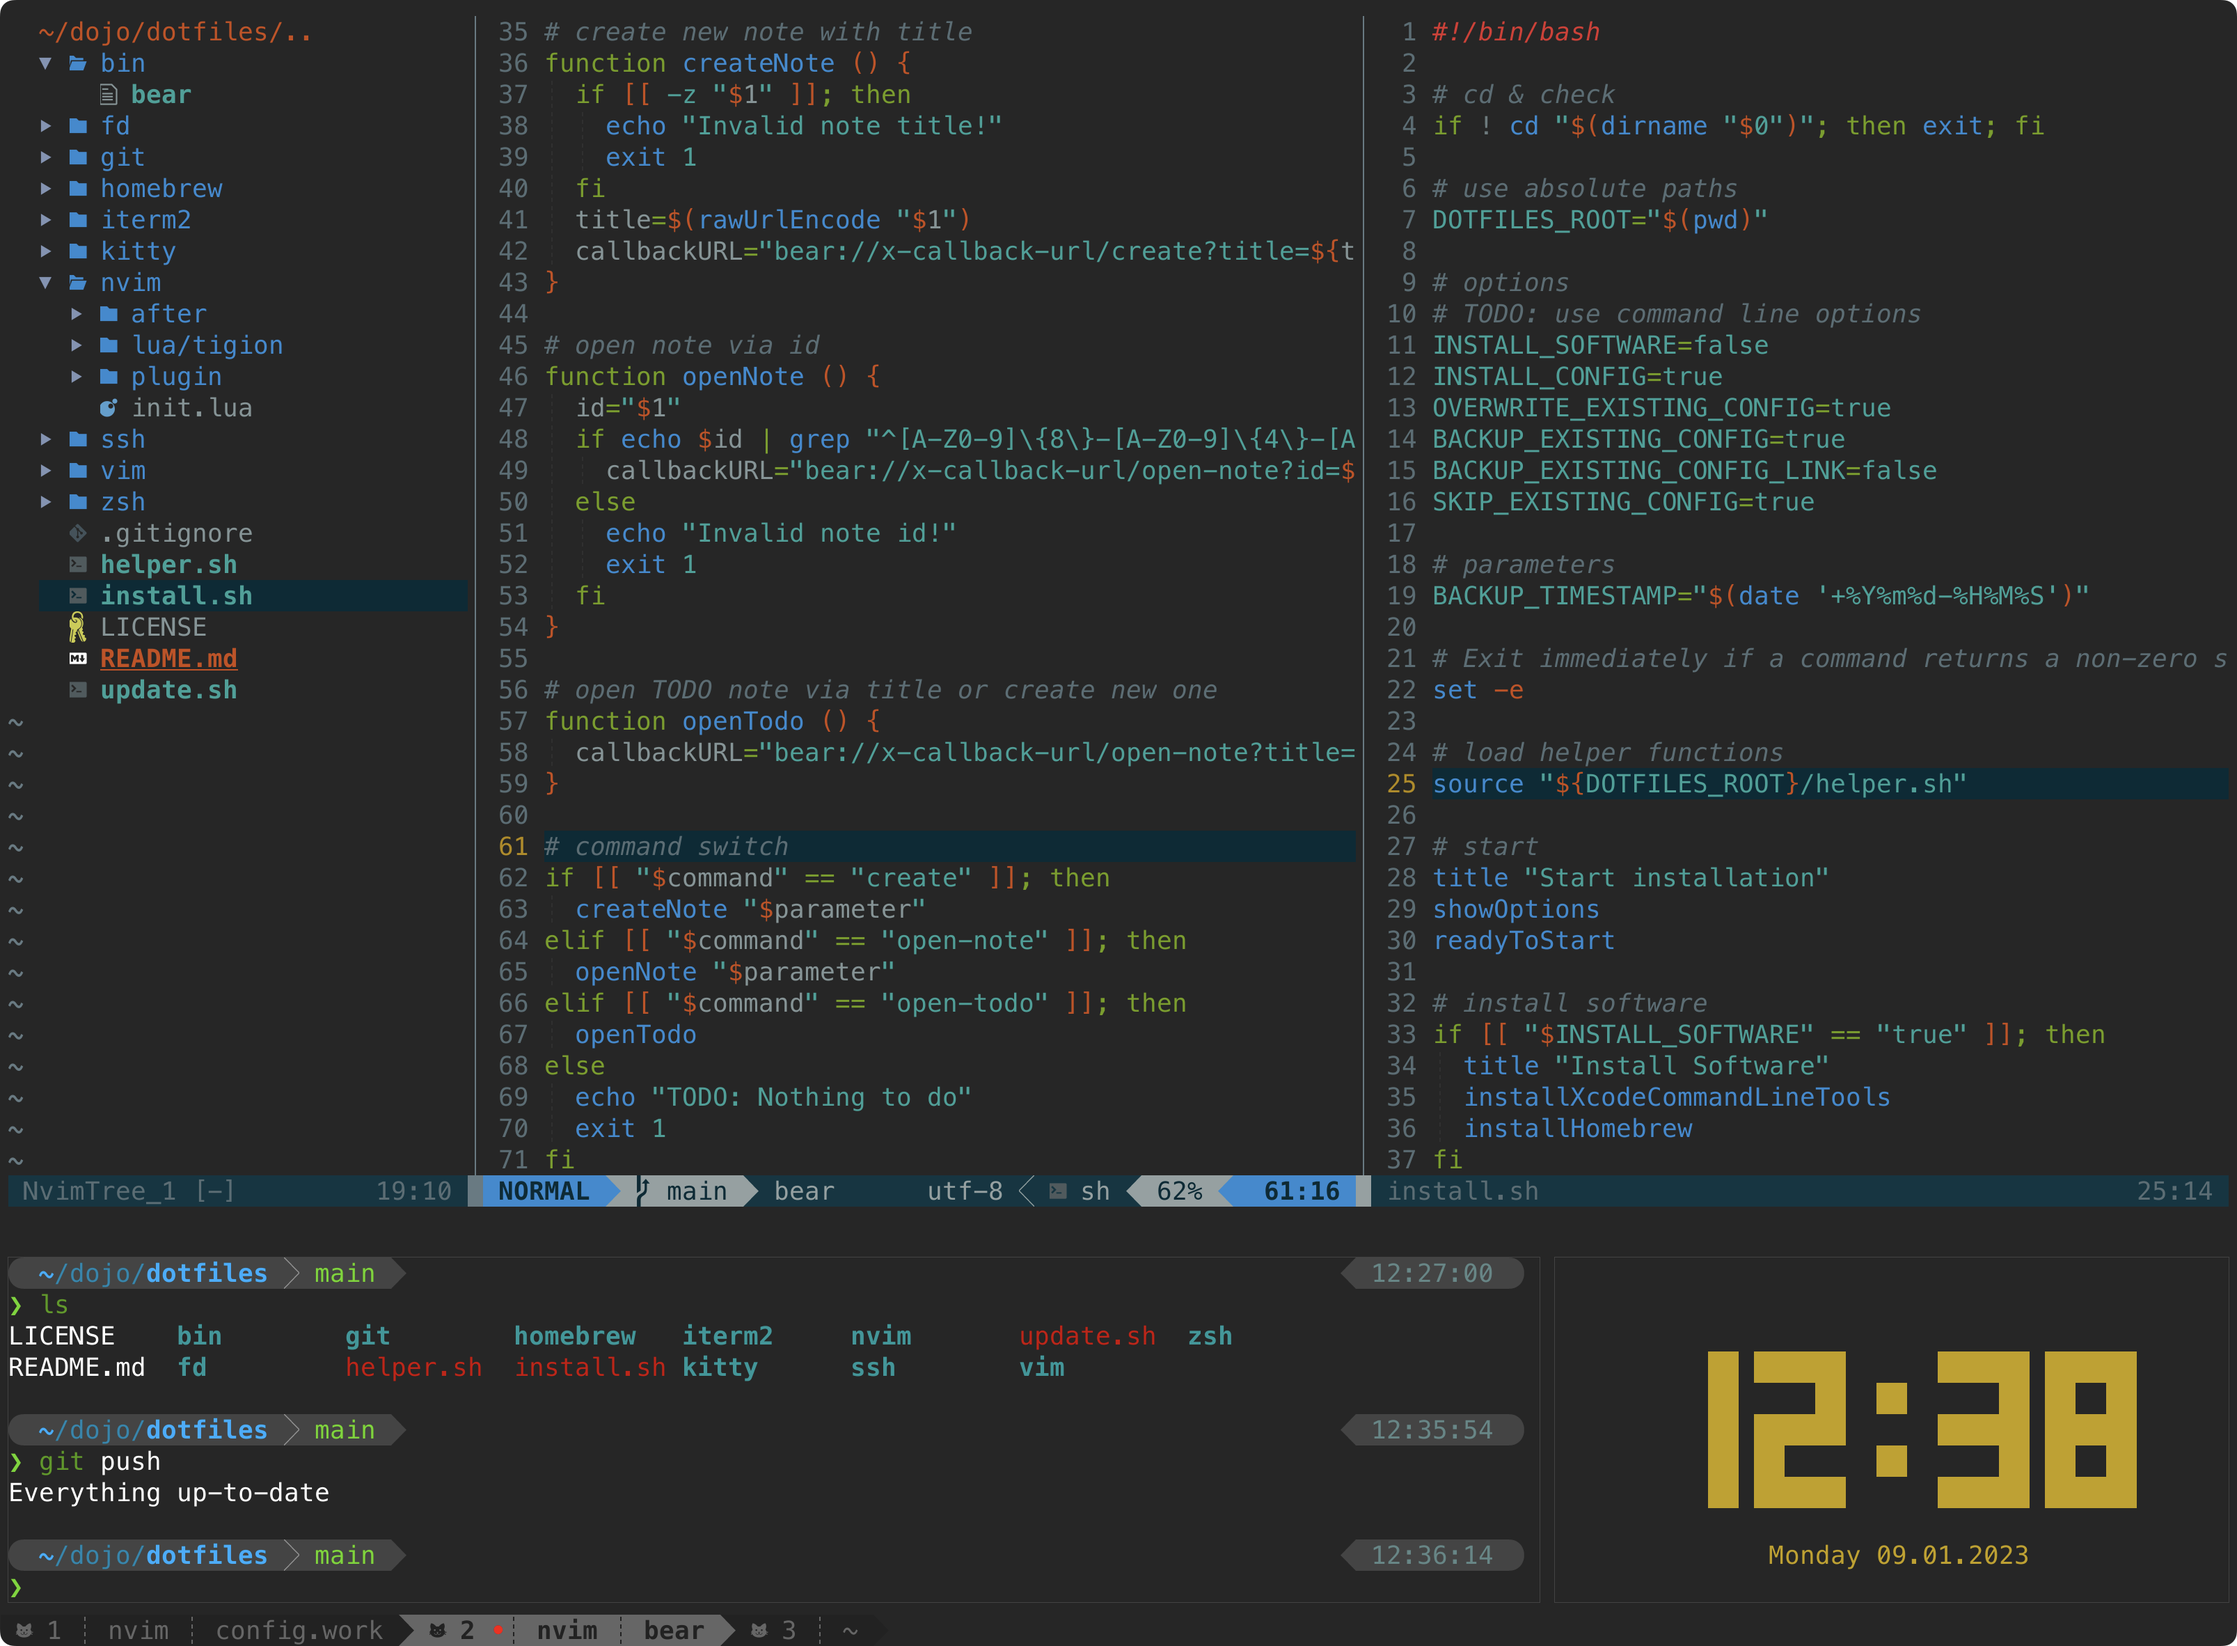
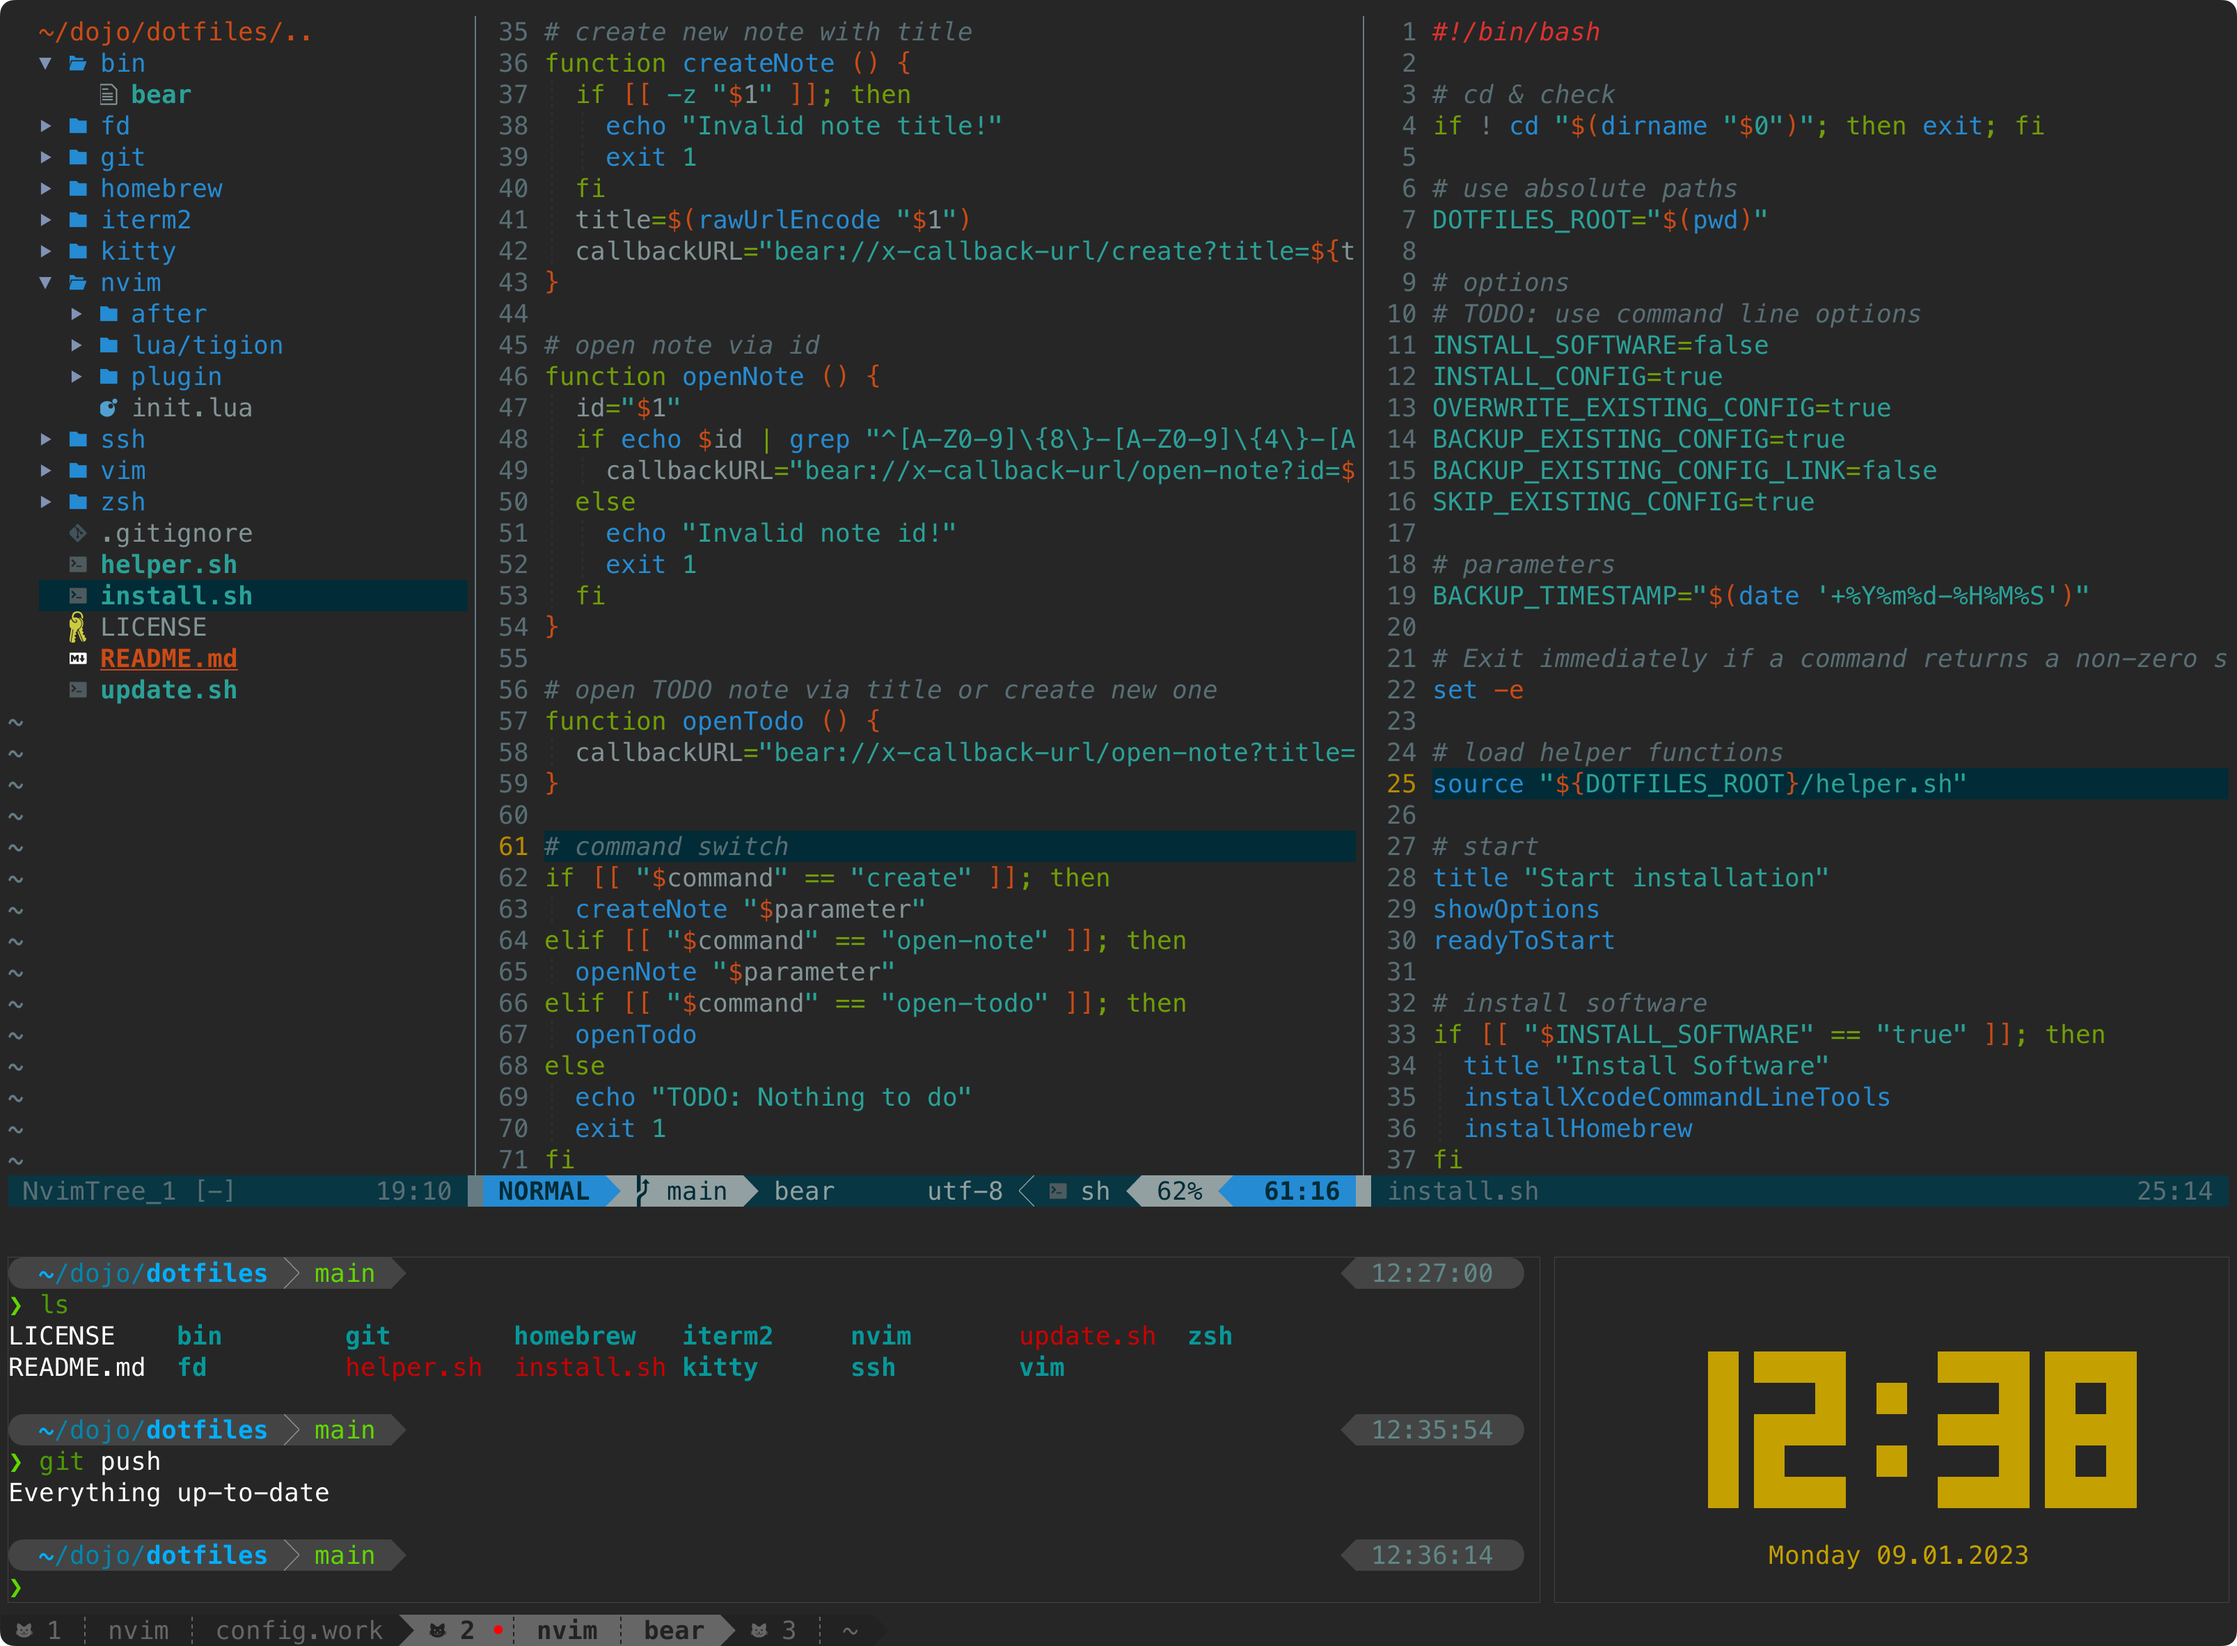
docs(readme): update images

diff --git a/README.md b/README.md
@@ -8,7 +8,7 @@ Inspired by the many great dotfile repositories out there.
 >
 > The _install.sh_ and _update.sh_ are currently only for macOS.
 
-![Screenshot](docs/images/screenshot_20241230.png)
+![Screenshot](docs/images/screenshot_20241230.jpg)
 
 - Screenshot: [kitty](https://sw.kovidgoyal.net/kitty/)
   with [tmux](https://github.com/tmux/tmux/wiki)
@@ -36,7 +36,7 @@ I use a German keyboard layout (qwertz), so I have adjusted some key mappings.
   and [Neovim](https://neovim.io/) on macOS:
 
     <!-- ![Screenshot](docs/images/screenshot_20240221.png) -->
-    <img src="docs/images/screenshot_20240221.png" alt="Screenshot" width="400"/>
+    <img src="docs/images/screenshot_20240221.jpg" alt="Screenshot" width="400"/>
 
 - 09.01.2023, [kitty](https://sw.kovidgoyal.net/kitty/)
   with [Neovim](https://neovim.io/) on macOS:
